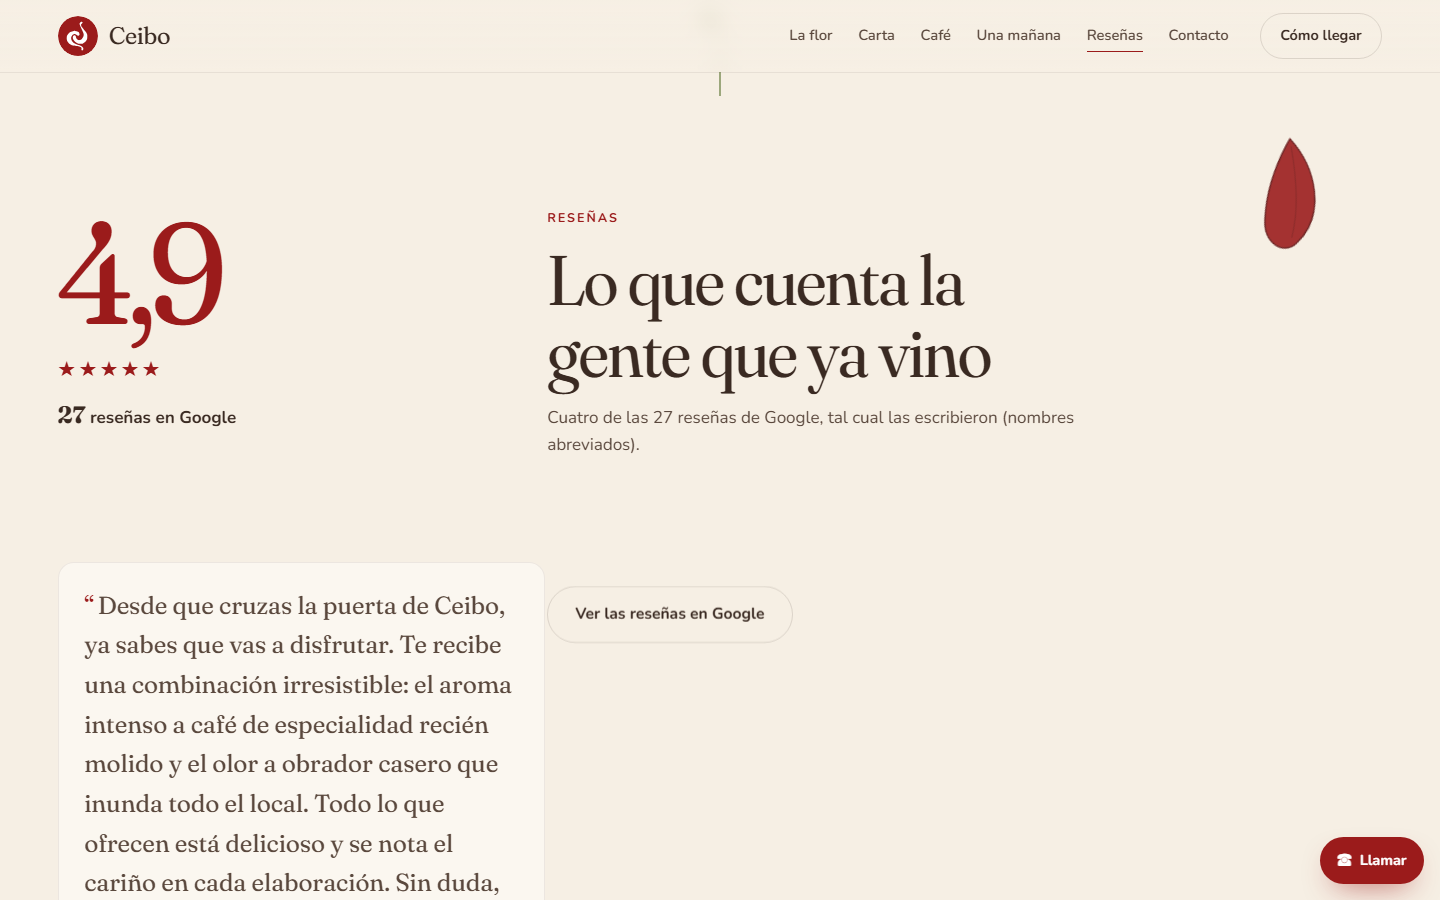
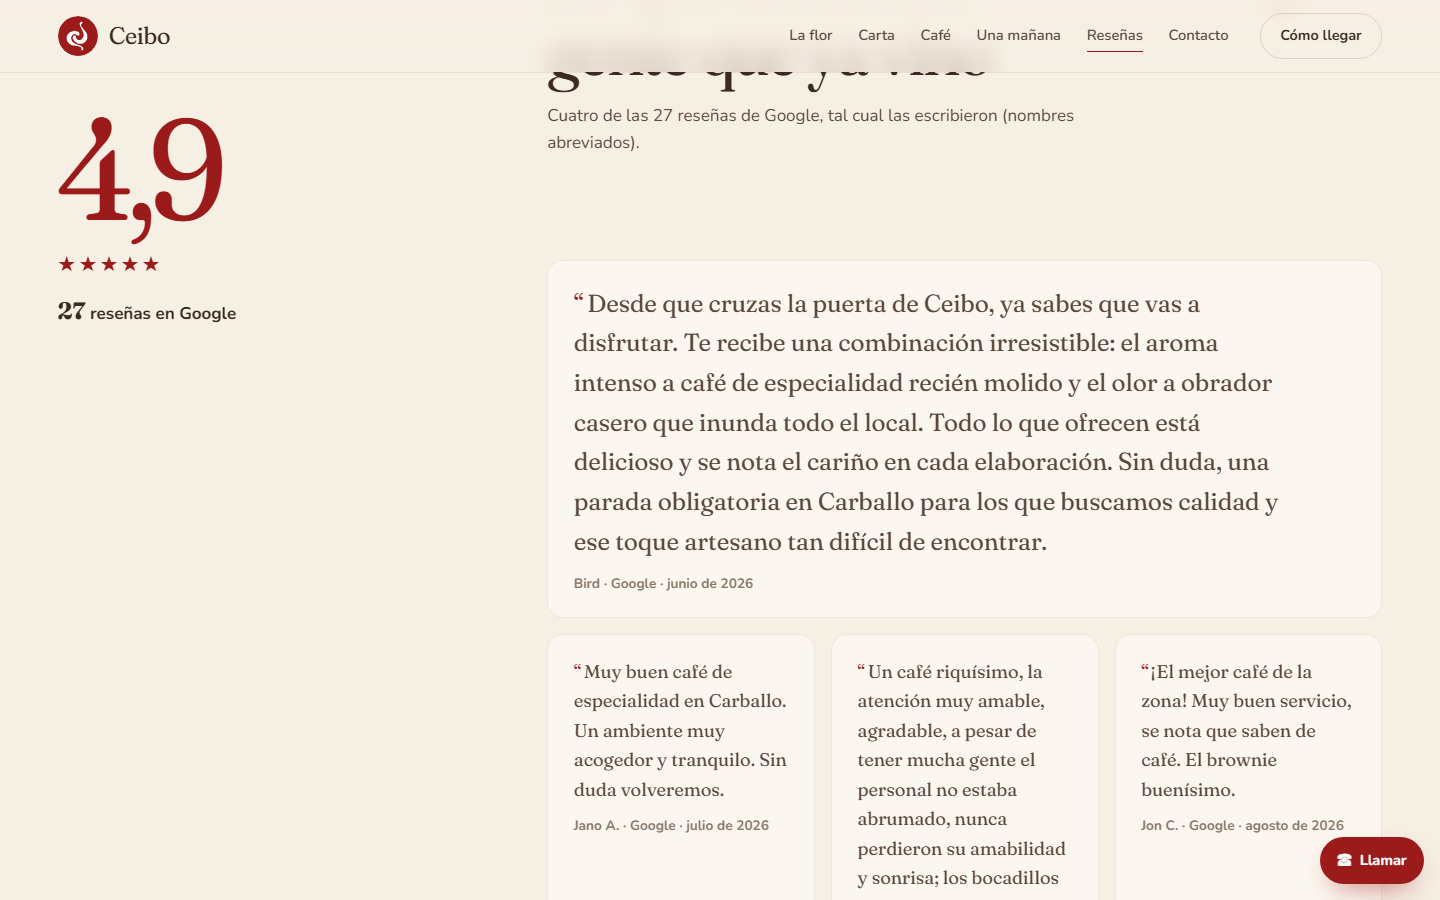
Reseñas: la lista va en la columna derecha

diff --git a/css/style.css b/css/style.css
@@ -337,7 +337,7 @@ figcaption { font-size: 0.72rem; color: var(--cafe-3); padding: 0.45rem 0.6rem; 
 .cifra-resenas { margin-top: 0.6rem; font-weight: 700; }
 .contador { font-family: var(--serif); font-size: 1.4em; font-variation-settings: "opsz" 48; color: var(--cafe); }
 .resenas-cabeza { margin-bottom: 2rem; }
-.resenas-lista { display: grid; grid-template-columns: repeat(3, 1fr); gap: 1rem; }
+.resenas-lista { grid-column: 2; display: grid; grid-template-columns: repeat(3, 1fr); gap: 1rem; }
 .resena--destacada { grid-column: 1 / -1; }
 .resena--destacada .resena-texto { font-size: clamp(1.25rem, 1.8vw, 1.55rem); font-variation-settings: "opsz" 48, "SOFT" 40; max-width: 46ch; }
 .resena { background: var(--crema-2); border: 1px solid var(--linea-suave); border-radius: 16px; padding: 1.4rem 1.6rem; }
